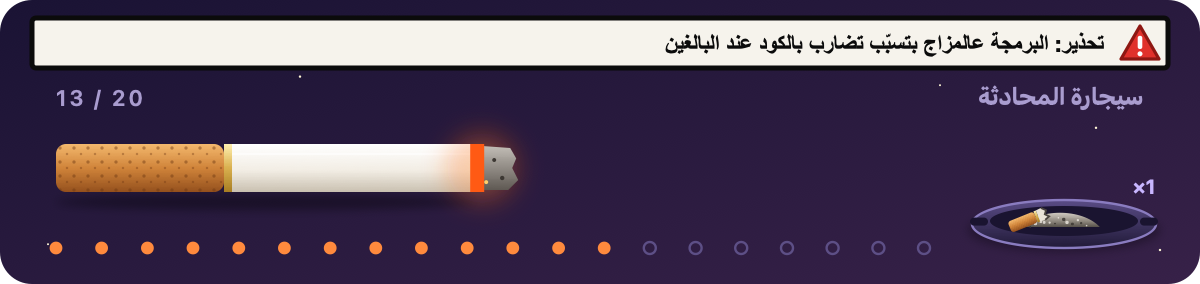
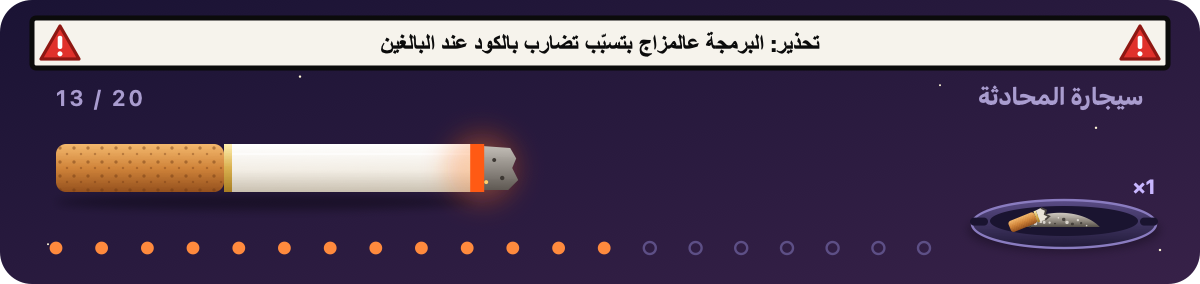
Centre the warning sentence, warning sign on both ends

Changed region(s): [[0.3083, 0.1127, 0.925, 0.1972], [0.0308, 0.0845, 0.0925, 0.2254]]

diff --git a/hooks/art.ts b/hooks/art.ts
@@ -98,7 +98,7 @@ function frame(h: number, night: number): string {
 
 // ───────────── تحذير الباكيت ─────────────
 
-// مثلث أحمر فيه علامة تعجب بيضا (⚠) — بأول الشريط من جهة القراية (كريم: أحمر مش أصفر).
+// مثلث أحمر فيه علامة تعجب بيضا (⚠) — على طرفي الشريط (كريم: أحمر مش أصفر).
 function warnIcon(x: number, y: number): string {
   return `<g transform="translate(${x} ${y})"><path d="M 0 -8.5 L 9.5 8 L -9.5 8 Z" fill="#e0312b" stroke="#8e1712" stroke-width="1.6" stroke-linejoin="round"/>
 <rect x="-1.15" y="-3.6" width="2.3" height="6.6" rx="1" fill="#ffffff"/><circle cx="0" cy="5.4" r="1.25" fill="#ffffff"/></g>`
@@ -107,9 +107,9 @@ function warnIcon(x: number, y: number): string {
 // شريط أبيض بإطار أسود متل تحذيرات الباكيت الحقيقية. بالرسمة المتحركة كل التحذيرات
 // جوّاته وبيتبدّلوا لحالهم كل 5 ثواني (بلا إعادة تحميل)؛ بالصورة الثابتة بيبيّن الأول بس.
 function warningStrip(texts: readonly string[], ln: Lang, animated: boolean): string {
+  // الجملة بالنص (كريم)، ومثلث أحمر من الجهتين.
   const rtl = ln !== 'en'
-  const tx = rtl ? 552 : 48
-  const attrs = `x="${tx}" y="25.6" text-anchor="start"${rtl ? ' direction="rtl"' : ''} font-family="'Helvetica Neue', Arial, sans-serif" font-size="11.5" font-weight="800" fill="#0b0b0b"`
+  const attrs = `x="300" y="25.6" text-anchor="middle"${rtl ? ' direction="rtl"' : ''} font-family="'Helvetica Neue', Arial, sans-serif" font-size="11.5" font-weight="800" fill="#0b0b0b"`
   const list = animated ? texts : texts.slice(0, 1)
   const n = list.length
   const each = 5
@@ -132,7 +132,8 @@ function warningStrip(texts: readonly string[], ln: Lang, animated: boolean): st
     })
     .join('\n')
   return `<rect x="16" y="9" width="568" height="25" rx="2" fill="#f6f3ec" stroke="#0b0b0b" stroke-width="2.5"/>
-${warnIcon(rtl ? 570 : 30, 21.5)}
+${warnIcon(30, 21.5)}
+${warnIcon(570, 21.5)}
 ${lines}`
 }
 

diff --git a/hooks/register.tsx b/hooks/register.tsx
@@ -422,10 +422,15 @@ export const register: Register = on => {
       if (isOut) {
         rows.push(<Text key="stats" color="#c8b6ff" bold>{card}</Text>)
       } else {
+        // التحذير بنص الشريط، ومربّع أحمر فيه ⚠ من الجهتين.
+        const room = inner - 6
+        const body = ` ${warn} `
+        const padL = Math.max(0, Math.floor((room - body.length) / 2))
         rows.push(
           <Box key="warn" flexDirection="row">
             <Text inverse bold color="#e0312b">{' ⚠ '}</Text>
-            <Text inverse bold wrap="truncate">{` ${warn} `.padEnd(inner - 3)}</Text>
+            <Text inverse bold wrap="truncate">{(' '.repeat(padL) + body).padEnd(room)}</Text>
+            <Text inverse bold color="#e0312b">{' ⚠ '}</Text>
           </Box>,
         )
       }
